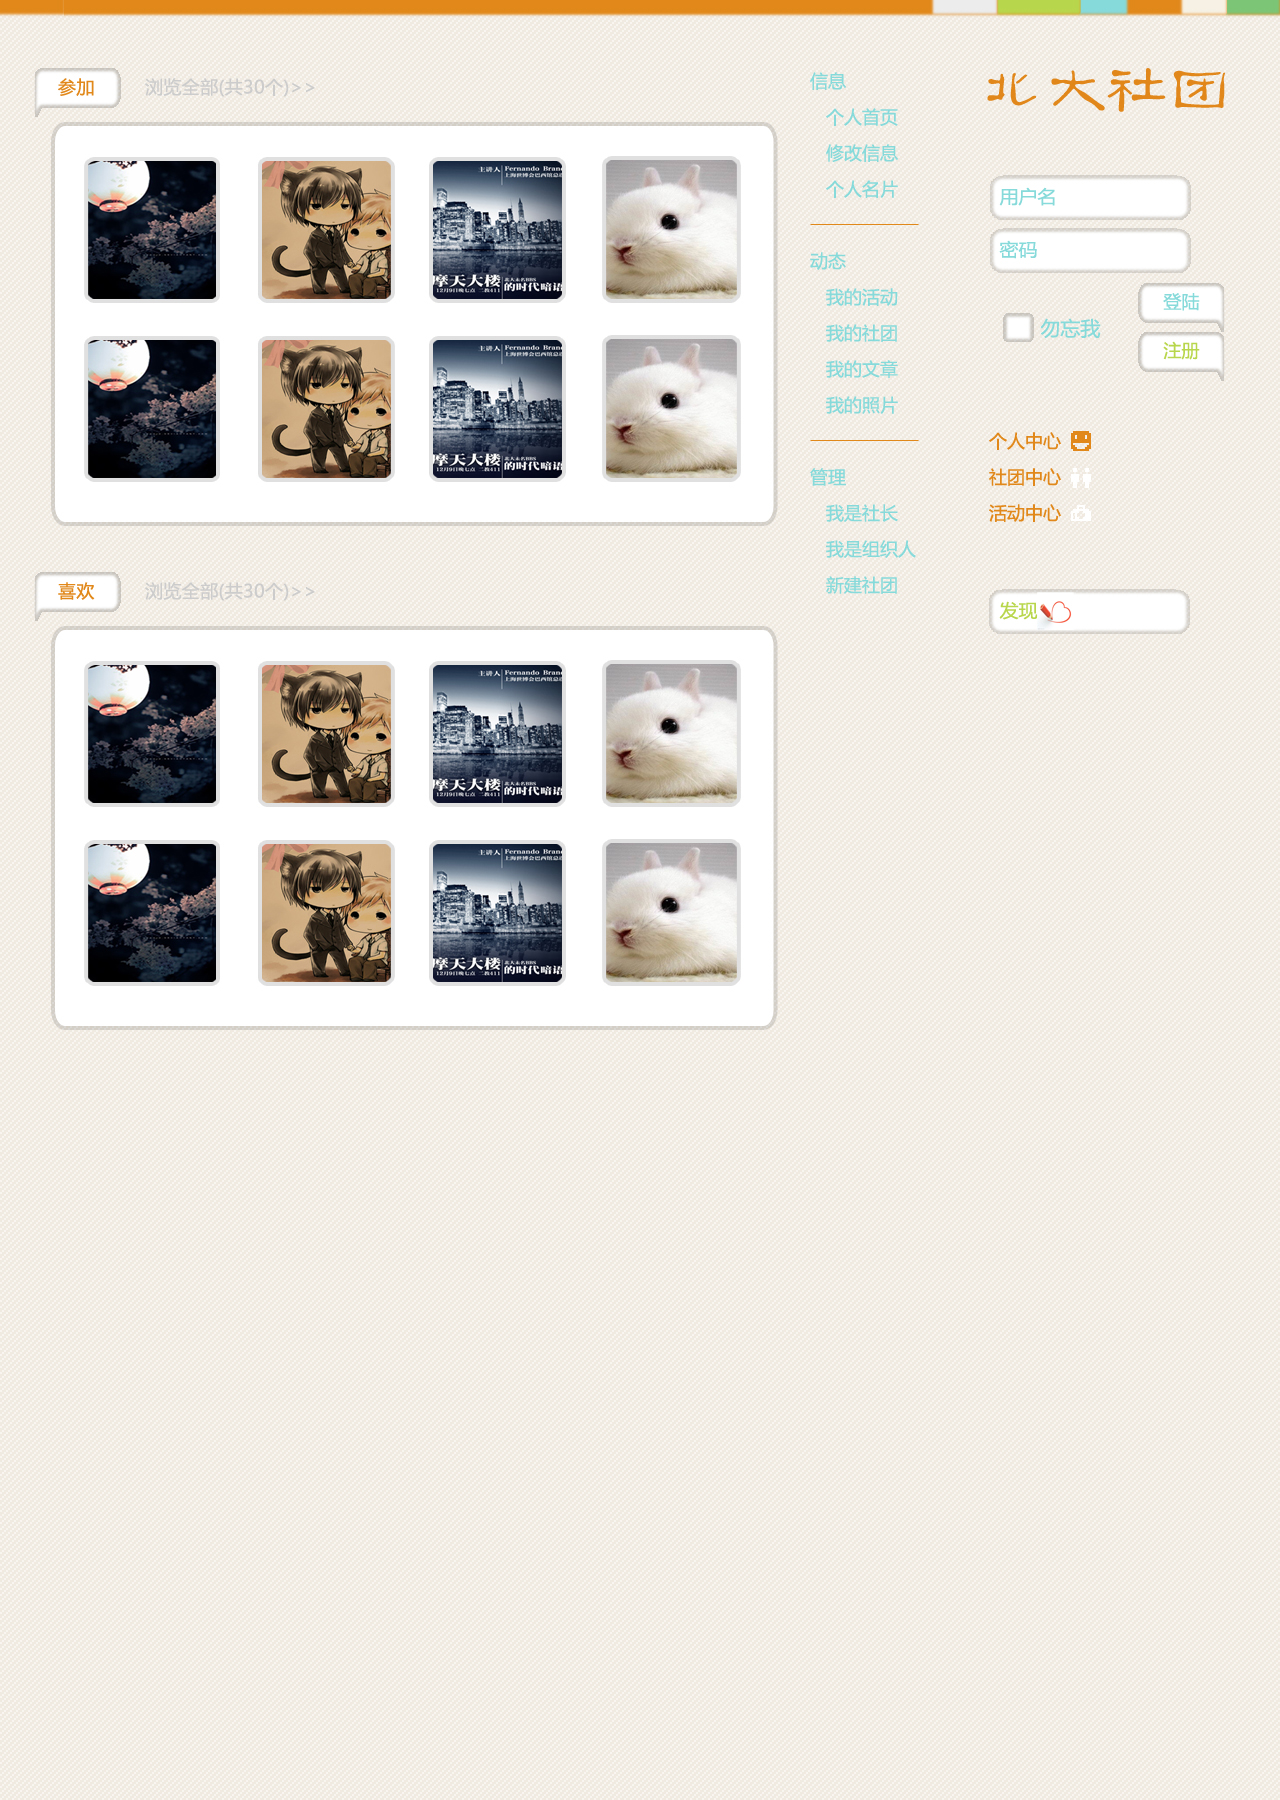
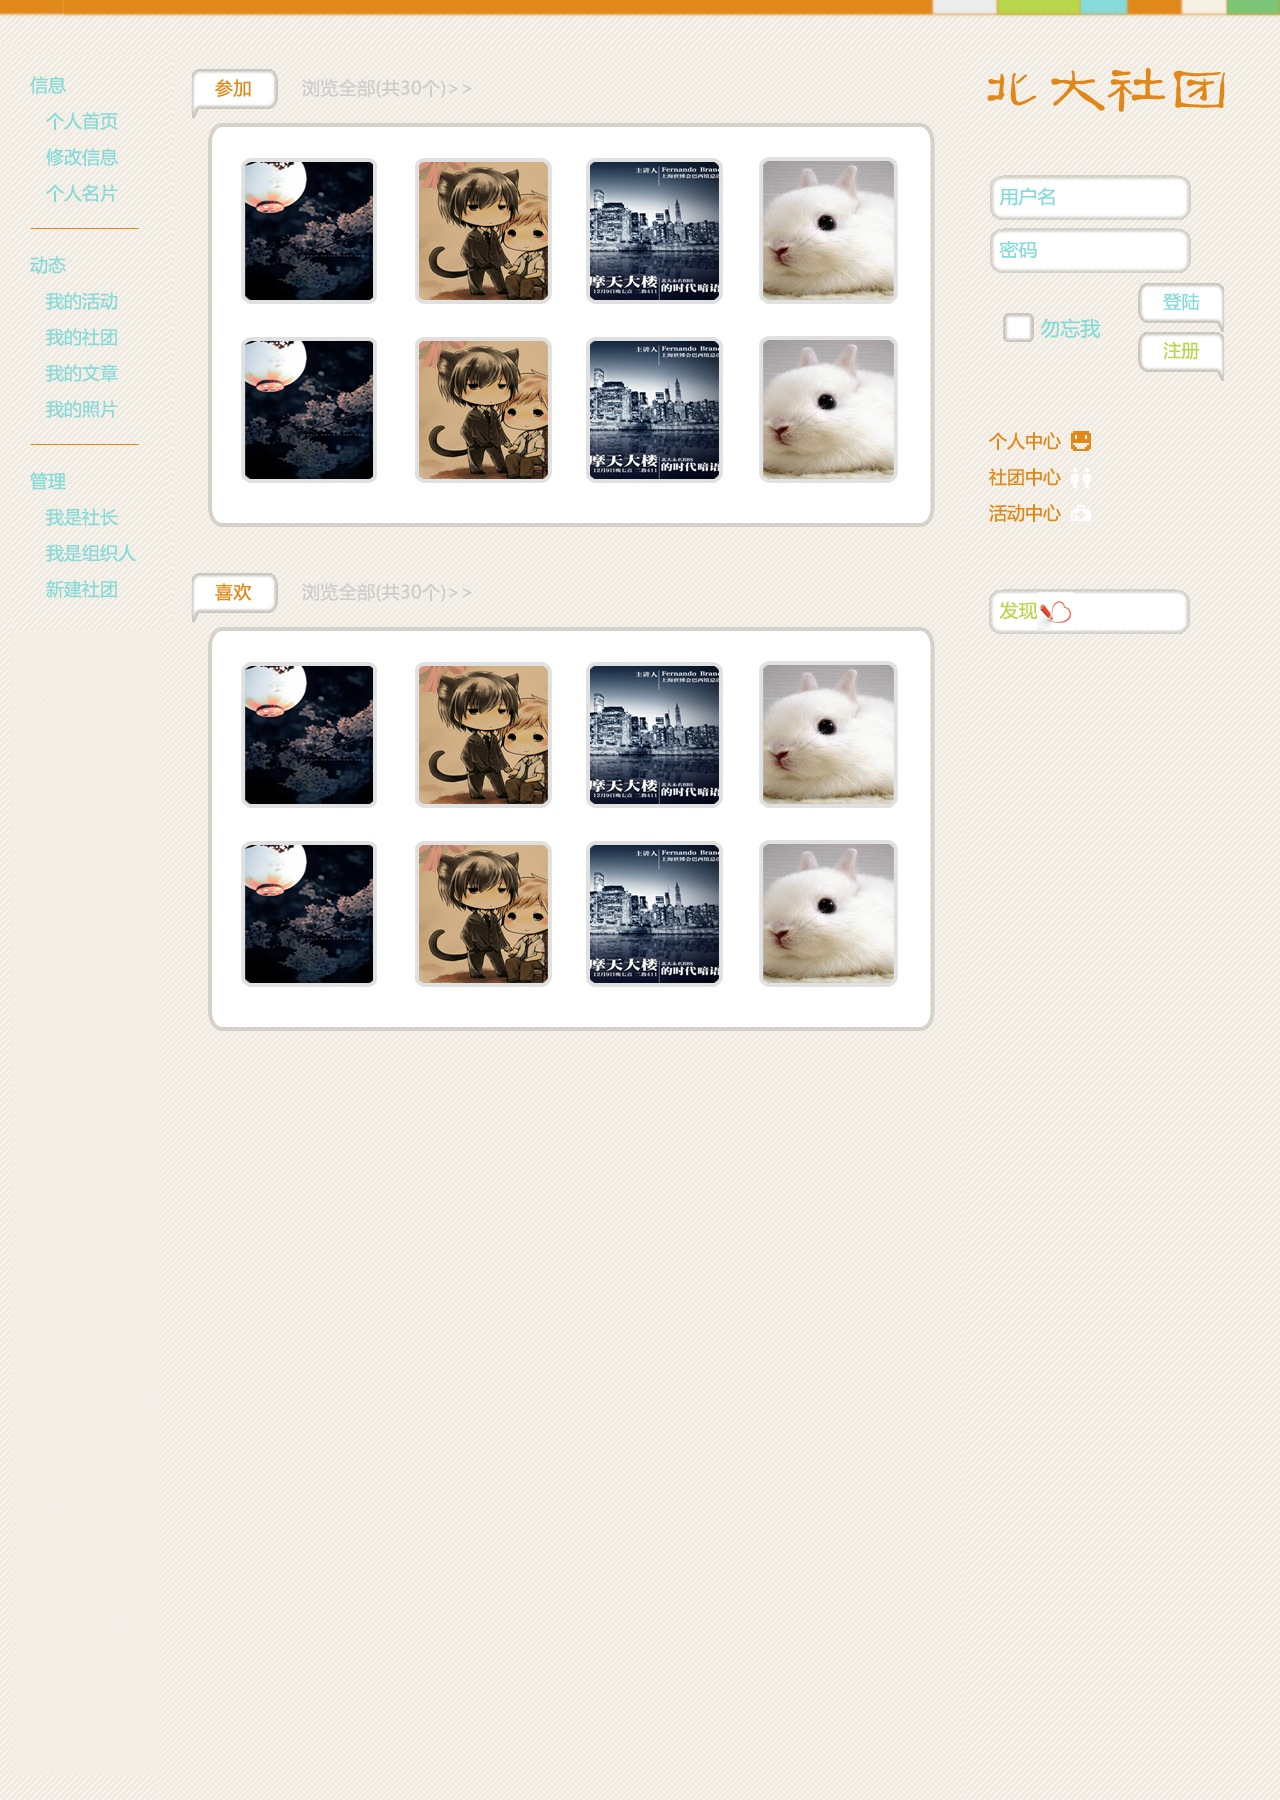
revise html css

diff --git a/app/assets/stylesheets/global.css.scss b/app/assets/stylesheets/global.css.scss
@@ -3,9 +3,15 @@
 
 body {
   font-family: "微软雅黑","Helvetica Neue", Arial, Helvetica, sans-serif !important;
+  min-height: 100%;
+  min-width: 100%;
 }
 
-.main { width: 720px; float: left; }
+html {
+  min-height: 100%;
+  min-width: 100%;
+}
+
 
 #header { 
   height:10px; 
@@ -22,13 +28,11 @@ table {
   @include background-color;
 }
 
-td.right { width:200px; }
-
 .sidebar { 
   position:fixed; 
   right:0px; 
   top:70px; 
-  width:200px; 
+  width:270px; 
 }
 
 .box {
@@ -66,44 +70,49 @@ td.right { width:200px; }
 }
 
 .content { 
+  margin-left: 18%;
+  margin-right: 28%;
+}
+
+#container {
+  min-height: 100%;
+  padding-top: 10px;
   @include background-color;
-  width: 900px; 
-  margin: 0 auto; 
+
 }
 
 .clear { clear: both; }
 
-.main .header {
-  span { 
-    @include orange; 
-    @include box-radius(10px);
-    @include box-inset;
-    background-color: white; 
-    display: inline-block;
-    width: 90px;
-    height: 40px;
-    text-align: center;
+.main {
+  .header {
+    span { 
+      @include orange; 
+      @include box-radius(10px);
+      @include box-inset;
+      background-color: white; 
+      display: inline-block;
+      width: 90px;
+      height: 40px;
+      text-align: center;
+      line-height: 40px;
+      font-size: 20px;
+      margin-left: -30px;
+      margin-right: 20px;
+    }
     line-height: 40px;
-    font-size: 20px;
-    margin-left: -30px;
-    margin-right: 20px;
+    @include gray-link;
+    a { font-size: 18px; margin-right: 10px; }
   }
-  line-height: 40px;
-  @include gray-link;
-  a { font-size: 18px; margin-right: 10px; }
-}
+} 
 
 .secondary {
-  font-size: 18px;
+  font-size: 15px;
+  position: fixed;
+  margin-left: 4%;
   float: left;
-  width: 90px;
-  text-align: right;
   li { list-style: none; margin: 5px 0px; }
   @include blue-link;
-  margin: 100px 0px 0px 70px;
   .first { @include blue; text-align: left; font-size: 20px; }
-  hr { @include orange; }
-  div { border-top: 1px solid rgb(226, 136, 26); }
 }
 
 .orange-link { @include orange-link; }

diff --git a/app/assets/stylesheets/comments.css.scss b/app/assets/stylesheets/comments.css.scss
@@ -10,14 +10,14 @@
     .avatar { float: left; } 
     .body { 
       float: right; 
-      margin: 20px 0px 20px 30px;
+      margin: 20px 0px 20px 20px;
     }
   }
   .comment.even, .new-comment { 
     .avatar { float: right; } 
     .body { 
       float: left; 
-      margin: 20px 30px 20px 0px;
+      margin: 20px 20px 20px 0px;
     }
   }
   li { 
@@ -32,7 +32,7 @@
     }
     .body {
       min-height: 60px;
-      width: 548px;
+      width: 528px;
       background-color: white;
       padding: 20px;
       @include box-radius;

diff --git a/app/assets/stylesheets/groups.css.scss b/app/assets/stylesheets/groups.css.scss
@@ -4,7 +4,8 @@
 
 @import 'mixin';
 
-.groups { float: left; width: 720px; }
+.groups { 
+}
 
 .group.card .like-join { margin-top: 20px; }
 .group.board { margin-top: 100px; overflow: visible; }

diff --git a/app/assets/stylesheets/activities.css.scss b/app/assets/stylesheets/activities.css.scss
@@ -5,8 +5,7 @@
 @import 'mixin';
 
 .activities {
-  float: left;
-  width: 720px;
+
 }
 
 .activity .info .blog { @include blue; font-size: 18px; }

diff --git a/app/assets/stylesheets/_mixin.css.scss b/app/assets/stylesheets/_mixin.css.scss
@@ -2,6 +2,7 @@
   background: rgb(255, 255, 204) url('bg.jpg'); 
 }
 
+
 @mixin blue {
   color: rgb(144,220,220);
 }

diff --git a/app/controllers/activities_controller.rb b/app/controllers/activities_controller.rb
@@ -1,5 +1,5 @@
 class ActivitiesController < ApplicationController
-  layout 'activities'
+  #layout 'activities'
   # GET /activities
   # GET /activities.json
   def index

diff --git a/app/controllers/groups_controller.rb b/app/controllers/groups_controller.rb
@@ -1,5 +1,5 @@
 class GroupsController < ApplicationController
-  layout "groups"
+  # layout "groups"
   # GET /groups
   # GET /groups.json
   def index
